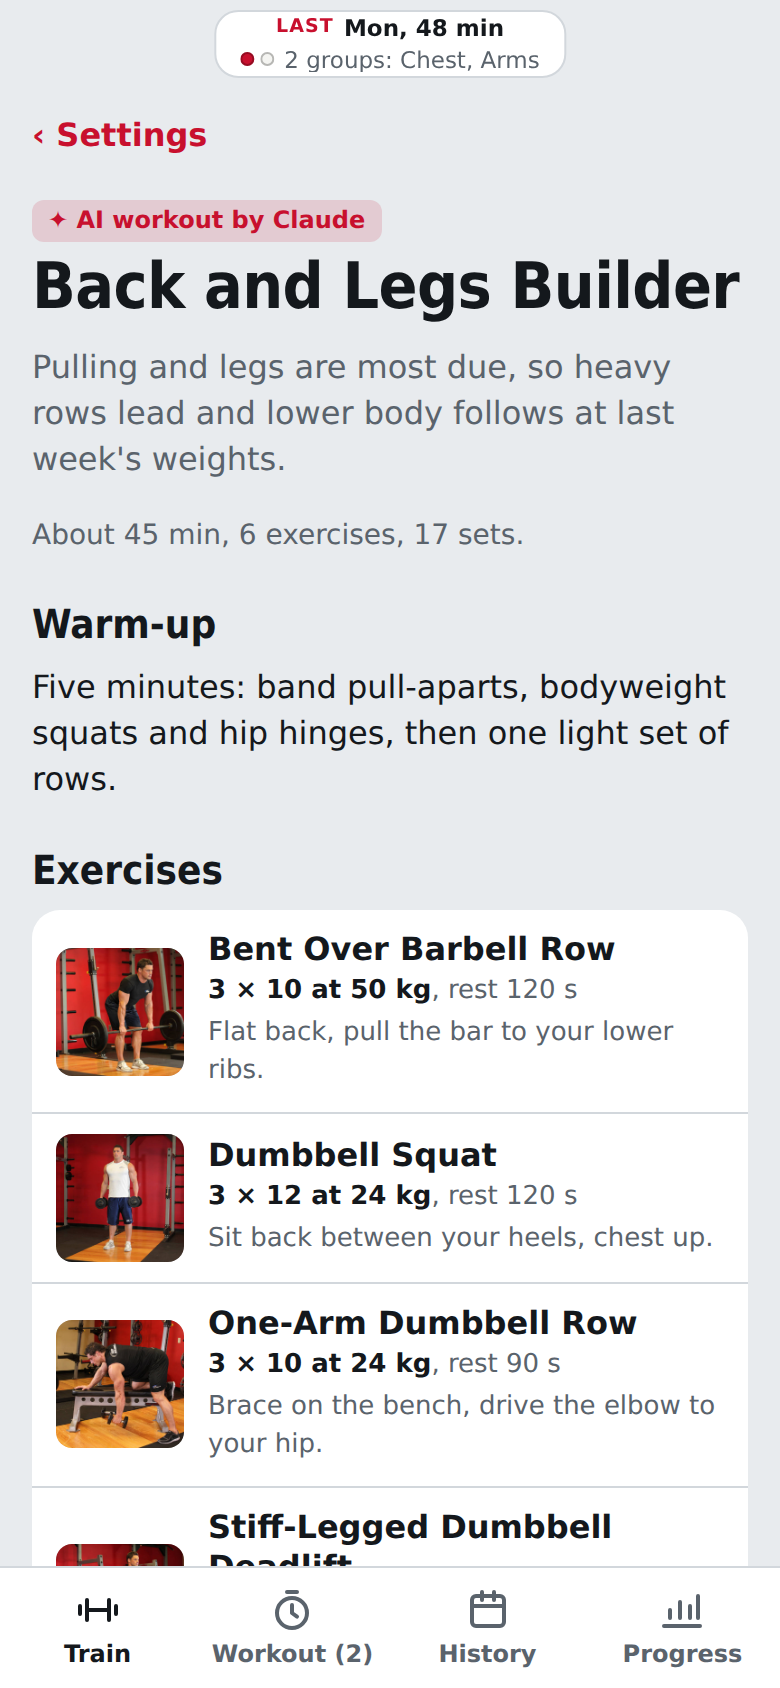
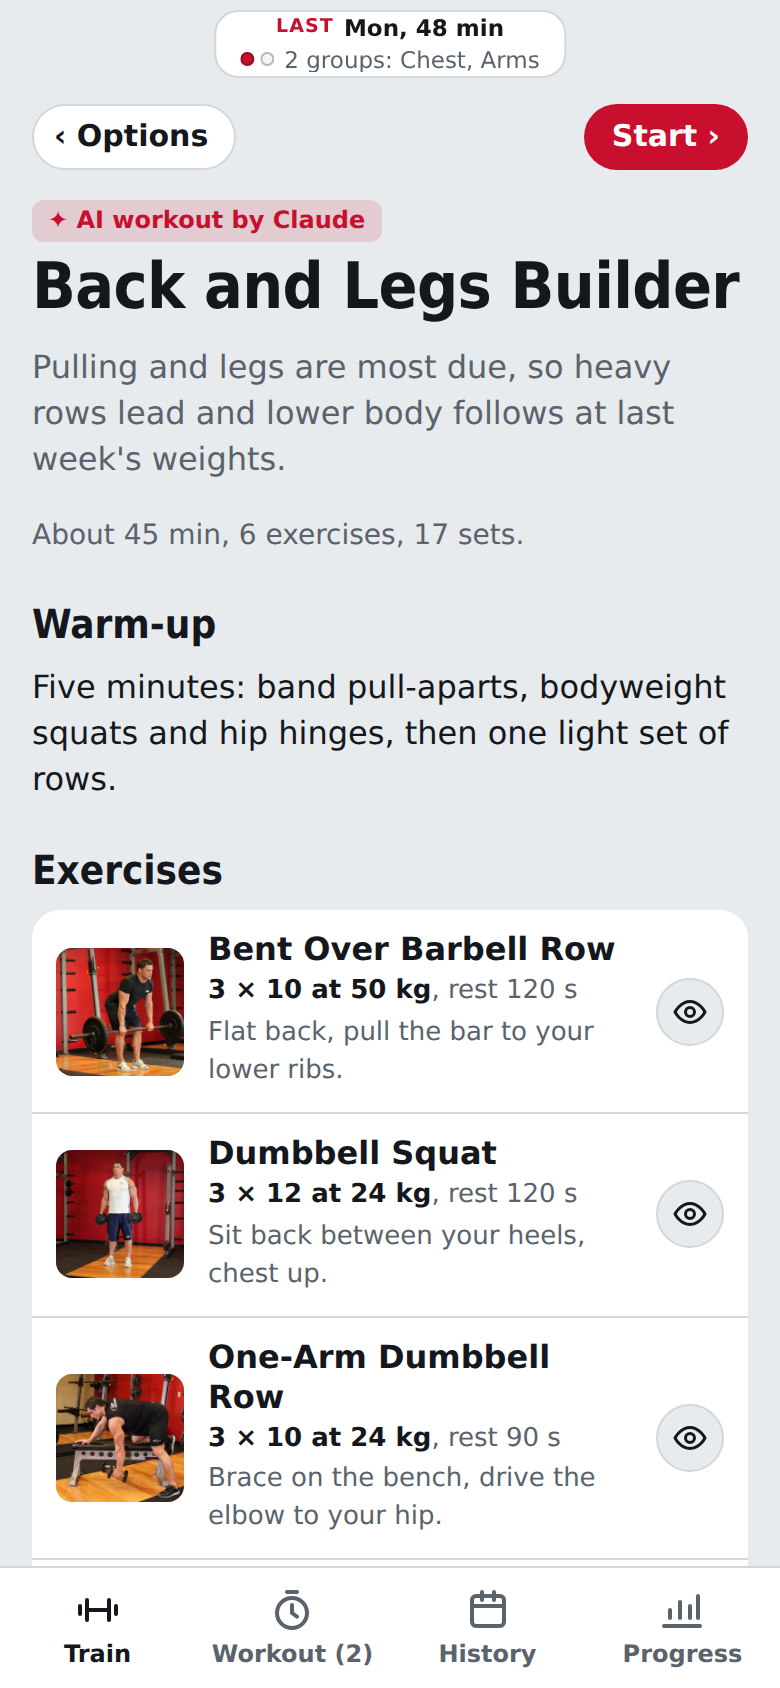
Release 1.8.0: easier navigation (＋ Add exercises, ✓ Workout header buttons, visible back buttons, plan Start in header) and a 10-second exercise preview pop-up

diff --git a/Go2FGym.js b/Go2FGym.js
@@ -28,7 +28,7 @@ const COACH = { autoAnalyze: true, autoStrava: true };
 
 // ---------------------------------------------------------------- version
 // This build's version. When releasing, bump it and add a matching entry to releases.json.
-const VERSION = '1.7.2';
+const VERSION = '1.8.0';
 const APP_ID = 'go2fgym';   // unique per app, never changes
 const REPO_RAW = 'https://raw.githubusercontent.com/gadominas/Go2FGym/main/';
 const SCRIPT_FILE = 'Go2FGym.js';   // the script's file name in the repository
@@ -1737,7 +1737,7 @@ function webApp() {
     const b = S.builder;
     const labels = b.groups.length ? b.groups.map((k) => GROUPS.find((g) => g.key === k).label).join(" + ") : "Muscles picked by the AI";
     const level = (INTENSITY.find((i) => i.key === b.intensity) || INTENSITY[1]).label.toLowerCase();
-    return `<header class="bar"><button class="back" data-a="b-edit">‹ Settings</button></header>
+    return `<header class="bar"><button class="back" data-a="b-edit">‹ Options</button></header>
       <p class="kicker">✨ Your AI coach</p>
       <h1 class="title busy">Building your next workout…</h1>
       <p class="lead"><b>${esc(labels)}</b>, about ${b.minutes} min, ${level}${b.why ? `, based on ${esc(b.why)}` : ""}. Weights come from your last sessions.</p>
@@ -1751,12 +1751,14 @@ function webApp() {
     const busy = S.aiBusy === "plan";
     const total = p.exercises.reduce((n, x) => n + x.sets, 0);
     const replacing = S.session && S.session.entries.length;
-    const rows = p.exercises.map((x) => `<div class="ex plan-ex" data-a="open" data-v="${esc(x.id)}">
+    const rows = p.exercises.map((x) => `<div class="ex plan-ex pv-row" data-a="open" data-v="${esc(x.id)}">
         <div class="thumb" data-id="${esc(x.id)}">${imgTag(x.id, 0)}<span>${esc(initials(x.name))}</span></div>
         <div><div class="ex-name">${esc(x.name)}</div>
         <div class="ex-meta"><b>${x.sets} × ${x.reps}${x.w ? ` at ${fmtNum(x.w)} ${UNIT}` : ""}</b>, rest ${x.rest} s</div>
-        ${x.note ? `<div class="ex-meta">${esc(x.note)}</div>` : ""}</div></div>`).join("");
-    return `<header class="bar"><button class="back" data-a="b-edit">‹ Settings</button></header>
+        ${x.note ? `<div class="ex-meta">${esc(x.note)}</div>` : ""}</div>
+        <button class="pv-btn" data-a="preview" data-v="${esc(x.id)}" aria-label="Preview ${esc(x.name)}"><svg viewBox="0 0 24 24" aria-hidden="true"><path d="M2 12s3.6-7 10-7 10 7 10 7-3.6 7-10 7S2 12 2 12z"/><circle cx="12" cy="12" r="3"/></svg></button></div>`).join("");
+    return `<header class="bar"><button class="back" data-a="b-edit">‹ Options</button>
+        <button class="hbtn${S.armed === "plan-start" ? " armed" : ""}" data-a="plan-start">${S.armed === "plan-start" ? "Tap to replace" : "Start ›"}</button></header>
       <p class="kicker"><span class="badge-ai">${esc(p.by ? `✦ AI workout by ${p.by}` : "✦ AI workout")}</span></p>
       <h1 class="title">${esc(p.title)}</h1>
       <p class="lead">${esc(p.summary)}</p>
@@ -1765,6 +1767,7 @@ function webApp() {
       <h2>Exercises</h2><div class="list">${rows}</div>
       ${p.cooldown ? `<h2>Cool-down</h2><p>${esc(p.cooldown)}</p>` : ""}
       <button class="primary${S.armed === "plan-start" ? " armed" : ""}" data-a="plan-start">${S.armed === "plan-start" ? "Tap again to replace your current workout" : "Start this workout"}</button>
+      <button class="secondary" data-a="plan-start-add">Start and add exercises</button>
       <button class="secondary${busy ? " busy" : ""}" data-a="build" ${busy ? "disabled" : ""}>${busy ? "Building another…" : "Build another"}</button>
       <p class="muted small">${replacing ? "Starting replaces the workout in progress. " : ""}Weights without history are left for you to choose. AI suggestions can be wrong.</p>`;
   }
@@ -1899,12 +1902,66 @@ function webApp() {
     if (!items.length) return `<p class="empty-line">No exercises match these filters. Try another equipment or type.</p>`;
     return `<p class="muted small count">${items.length} exercise${items.length > 1 ? "s" : ""}</p><div class="list">${items.map(exRow).join("")}</div>`;
   }
+  function toWorkoutBtn() {
+    const n = S.session ? S.session.entries.length : 0;
+    return n ? `<button class="hbtn" data-a="tab" data-v="workout">✓ Workout (${n})</button>` : "";
+  }
+  // Open the exercise list for adding to the running workout, filtered to its muscle groups.
+  function addExercises() {
+    const keys = S.session ? sessionGroups(S.session).map((g) => g.key) : [];
+    S.tab = "train";
+    S.detailId = null;
+    S.q = "";
+    S.muscle = "all";
+    if (keys.length) { S.groups = new Set(keys); S.trainView = "list"; }
+    else S.trainView = "home";
+    render();
+  }
+
+  // Quick preview pop-up: the photo demo and the essentials, with a way into the full page. Closes itself after 10 s.
+  const PV_SECONDS = 10;
+  let pvTimer = null;
+  function closePreview() {
+    clearInterval(pvTimer);
+    pvTimer = null;
+    const el = $("#pv");
+    if (el) el.remove();
+  }
+  function openPreview(id) {
+    closePreview();
+    const e = S.byId[id];
+    if (!e) return;
+    want(id);
+    const last = lastSets(id);
+    const el = document.createElement("div");
+    el.id = "pv";
+    el.innerHTML = `<div class="pv-card" role="dialog" aria-modal="true" aria-label="Preview: ${esc(e.n)}">
+      <div class="pv-head"><b>${esc(e.n)}</b><button class="pv-x" data-a="pv-close" aria-label="Close preview">×</button></div>
+      <div class="stage pv-stage" data-frame="play">${e.has ? imgTag(e.id, 0, "f0") + imgTag(e.id, 1, "f1") : `<p class="noimg">No photos downloaded for this exercise yet.</p>`}</div>
+      <p class="small pv-meta">${esc(metaLine(e))}. Works <b>${esc(e.pm.map(cap).join(", "))}</b>.</p>
+      ${last ? `<p class="small muted pv-meta">Last time, ${esc(day(last.date))}: ${esc(fmtSets(last.sets))}</p>` : ""}
+      <div class="pv-actions"><button class="secondary" data-a="pv-close">Close</button><button class="primary" data-a="pv-open" data-v="${esc(id)}">Open exercise ›</button></div>
+      <div class="pv-bar" aria-hidden="true"><i></i></div>
+      <p class="pv-auto">Closes in <span>${PV_SECONDS}</span> s</p>
+    </div>`;
+    document.body.appendChild(el);
+    el.addEventListener("click", (ev) => { if (ev.target === el) closePreview(); });   // tap outside closes
+    const t0 = Date.now();
+    pvTimer = setInterval(() => {
+      const left = Math.max(0, PV_SECONDS - Math.floor((Date.now() - t0) / 1000));
+      const n = el.querySelector(".pv-auto span");
+      if (n) n.textContent = left;
+      if (Date.now() - t0 >= PV_SECONDS * 1000) closePreview();
+    }, 250);
+  }
+
   function renderList() {
     const groups = GROUPS.filter((g) => S.groups.has(g.key));
     const muscles = selectedMuscles().filter((m) => S.lib.some((e) => e.pm.includes(m)));
     const eqs = [...new Set(S.lib.map((e) => e.eq))];
-    return `<header class="bar"><button class="back" data-a="home">‹ Muscles</button></header>
+    return `<header class="bar"><button class="back" data-a="home">‹ Muscles</button>${toWorkoutBtn()}</header>
       <h1 class="title">${esc(groups.map((g) => g.label).join(" + "))}</h1>
+      ${S.session && S.session.entries.length ? `<p class="add-hint">Adding to <b>${esc(S.session.title || "your workout")}</b>: tap <b>+</b> on an exercise, then <b>Workout</b> at the top to go back.</p>` : ""}
       ${muscles.length > 1 ? `<div class="chips">${chip("muscle", "all", "All muscles")}${muscles.map((m) => chip("muscle", m, cap(m))).join("")}</div>` : ""}
       <div class="chips">${chip("eq", "all", "Any equipment")}${eqs.map((q) => chip("eq", q, EQ_LABEL[q] || cap(q))).join("")}</div>
       <div class="chips">${TYPES.map((t) => chip("type", t.key, t.label)).join("")}</div>
@@ -1924,7 +1981,7 @@ function webApp() {
     const on = inSession(e.id);
     const last = lastSets(e.id);
     const back = S.tab === "workout" ? "Workout" : S.tab === "history" ? "History" : "Exercises";
-    return `<header class="bar"><button class="back" data-a="close-detail">‹ ${back}</button></header>
+    return `<header class="bar"><button class="back" data-a="close-detail">‹ ${back}</button>${S.tab === "workout" ? "" : toWorkoutBtn()}</header>
       <h1 class="title">${esc(e.n)}</h1>
       <div class="stage" data-frame="play">${e.has ? imgTag(e.id, 0, "f0") + imgTag(e.id, 1, "f1") : `<p class="noimg">Photos not downloaded. Tap Update library on the Train tab.</p>`}</div>
       ${e.has ? `<div class="seg" role="group" aria-label="Demo frame">
@@ -1947,8 +2004,9 @@ function webApp() {
     const s = S.session;
     if (!s || !s.entries.length)
       return `<header class="bar"><h1 class="title">Workout</h1></header>
-        <div class="empty"><p>No exercises yet. Pick the muscles you want to train, then add exercises with +.</p>
-        <button class="primary" data-a="tab" data-v="train">Choose muscles</button></div>`;
+        <div class="empty"><p>No exercises yet. Pick the muscles you want to train and add exercises with <b>+</b>${S.ai.hasKey ? ", or let the AI coach build the whole workout" : ""}.</p>
+        <button class="primary" data-a="go-muscles">Choose muscles</button>
+        ${S.ai.hasKey && S.history.sessions.length ? `<button class="secondary ai" data-a="build-next-h">✨ Build next workout</button>` : ""}</div>`;
     const t = volume(s.entries.map((en) => ({ sets: en.sets.filter((x) => x.done) })));
     const entries = s.entries.map((en, ei) => {
       const last = lastSets(en.id);
@@ -1960,6 +2018,7 @@ function webApp() {
           <button class="x" data-a="rm-set" data-v="${ei}:${si}" aria-label="Remove set ${si + 1}">×</button></div>`).join("");
       return `<section class="entry">
         <div class="entry-head"><button class="entry-name" data-a="open" data-v="${esc(en.id)}">${esc(en.name)}</button>
+        <button class="pv-btn" data-a="preview" data-v="${esc(en.id)}" aria-label="Preview ${esc(en.name)}"><svg viewBox="0 0 24 24" aria-hidden="true"><path d="M2 12s3.6-7 10-7 10 7 10 7-3.6 7-10 7S2 12 2 12z"/><circle cx="12" cy="12" r="3"/></svg></button>
         <button class="link small${S.armed === "rm" + ei ? " armed" : ""}" data-a="rm-entry" data-v="${ei}">${S.armed === "rm" + ei ? "Tap to remove" : "Remove"}</button></div>
         ${en.note ? `<p class="small coach-note">✨ ${esc(en.note)}${en.rest ? ` Rest ${en.rest} s.` : ""}</p>` : ""}
         ${last ? `<p class="muted small">Last time, ${esc(day(last.date))}: ${esc(fmtSets(last.sets))}</p>` : `<p class="muted small">First time logging this one.</p>`}
@@ -1967,10 +2026,10 @@ function webApp() {
         ${rows}
         <button class="link" data-a="add-set" data-v="${ei}">Add set</button></section>`;
     }).join("");
-    return `<header class="bar"><h1 class="title">${esc(s.title || "Workout")}</h1><span class="muted" id="elapsed">${elapsed(s.start)}</span></header>
-      <p class="muted small" id="totals">${plural(t.n, "set")} done${t.v ? `, ${fmtNum(t.v)} ${UNIT} lifted` : ""}. Tap ✓ after each set to start the rest timer.</p>
+    return `<header class="bar"><h1 class="title">${esc(s.title || "Workout")}</h1><button class="hbtn" data-a="add-ex">＋ Add exercises</button></header>
+      <p class="muted small" id="totals"><span id="elapsed">${elapsed(s.start)}</span>, ${plural(t.n, "set")} done${t.v ? `, ${fmtNum(t.v)} ${UNIT} lifted` : ""}. Tap ✓ after each set to start the rest timer; the eye shows a quick preview.</p>
       ${entries}
-      <button class="secondary" data-a="tab" data-v="train">Add exercise</button>
+      <button class="secondary" data-a="add-ex">＋ Add exercises</button>
       <button class="primary${S.armed === "finish" ? " armed" : ""}" data-a="finish">${S.armed === "finish" ? "Tap again to save" : "Finish workout"}</button>
       <button class="link danger${S.armed === "discard" ? " armed" : ""}" data-a="discard">${S.armed === "discard" ? "Tap again to discard" : "Discard workout"}</button>`;
   }
@@ -2480,6 +2539,15 @@ function webApp() {
     home: () => { S.trainView = "home"; render(); },
     filter: (v) => { const i = v.indexOf("|"); S[v.slice(0, i)] = v.slice(i + 1); render(); },
     open: (v) => { S.detailId = v; render(); },
+    preview: (v) => openPreview(v),
+    "pv-close": () => closePreview(),
+    "pv-open": (v) => { closePreview(); S.detailId = v; render(); },
+    "add-ex": () => addExercises(),
+    "go-muscles": () => { S.tab = "train"; S.detailId = null; S.trainView = "home"; render(); },
+    "plan-start-add": () => {
+      const go = () => { startPlan(); addExercises(); };
+      return S.session && S.session.entries.length ? arm("plan-start-add", go) : go();
+    },
     "close-detail": () => { S.detailId = null; render(); },
     add: (v) => {
       if (inSession(v)) {
@@ -2781,6 +2849,7 @@ body::before{content:"";position:fixed;inset:0 0 auto;height:var(--band,env(safe
 #last .dots{gap:3px;flex:none}#last .dot{width:7px;height:7px}
 .hbtn{flex:none;background:var(--accent);color:var(--accent-ink);font:700 calc(15px * var(--ts))/1 var(--body);padding:9px 14px;border-radius:999px;white-space:nowrap;text-align:center}
 .hbtn:disabled{opacity:.4}
+.hbtn.armed{background:var(--ink);color:var(--bg)!important;text-decoration:none}
 #app{max-width:640px;margin:0 auto;padding:0 16px 32px}
 button{font:inherit;color:inherit;background:none;border:0;padding:0;cursor:pointer;text-align:inherit}
 button:focus-visible,input:focus-visible{outline:2px solid var(--accent);outline-offset:2px}
@@ -2799,7 +2868,27 @@ p{margin:0 0 10px}
 .lead{color:var(--muted);margin-bottom:16px}
 .bar{display:flex;align-items:center;justify-content:space-between;gap:12px;min-height:48px;position:sticky;top:var(--band,env(safe-area-inset-top,0px));background:var(--bg);z-index:5}
 .bar .title{margin:10px 0}
-.back{font-weight:600;color:var(--accent);padding:10px 0}
+.back{display:inline-flex;align-items:center;gap:2px;font:600 calc(15px * var(--ts))/1 var(--body);color:var(--ink);background:var(--surface);border:1px solid var(--line);
+  padding:8px 13px 8px 10px;border-radius:999px;white-space:nowrap}
+.bar .back:first-child{margin-right:auto}
+.add-hint{font-size:calc(14px * var(--ts));background:var(--surface);border-left:3px solid var(--accent);border-radius:8px;padding:8px 10px;margin:0 0 10px}
+.pv-btn{flex:none;width:34px;height:34px;border-radius:17px;display:grid;place-items:center;border:1px solid var(--line);background:var(--bg);color:var(--ink)}
+.pv-btn svg{width:18px;height:18px;fill:none;stroke:currentColor;stroke-width:2;stroke-linecap:round;stroke-linejoin:round}
+.entry-head{align-items:center}.entry-head .entry-name{flex:1;text-align:left}
+.plan-ex.pv-row{grid-template-columns:64px 1fr 34px}
+#pv{position:fixed;inset:0;z-index:55;background:rgba(0,0,0,.55);display:flex;align-items:center;justify-content:center;padding:18px}
+.pv-card{width:100%;max-width:440px;background:var(--surface);color:var(--ink);border-radius:18px;padding:14px 14px 10px;box-shadow:0 12px 40px rgba(0,0,0,.35);overflow:hidden}
+.pv-head{display:flex;align-items:flex-start;justify-content:space-between;gap:10px;margin-bottom:8px}
+.pv-head b{font:800 calc(21px * var(--ts))/1.15 var(--display)}
+.pv-x{flex:none;width:32px;height:32px;border-radius:16px;background:var(--bg);font-size:22px;line-height:1;text-align:center}
+.pv-stage{margin:0 0 8px}
+.pv-meta{margin:0 0 4px}
+.pv-actions{display:grid;grid-template-columns:1fr 1.4fr;gap:8px;margin-top:10px}
+.pv-actions .primary,.pv-actions .secondary{margin:0;white-space:nowrap;font-size:calc(17px * var(--ts));padding:13px 10px}
+.pv-bar{height:4px;border-radius:2px;background:var(--line);margin:12px 0 4px;overflow:hidden}
+.pv-bar i{display:block;height:100%;background:var(--accent);transform-origin:left;animation:pvbar 10s linear forwards}
+@keyframes pvbar{from{transform:scaleX(1)}to{transform:scaleX(0)}}
+.pv-auto{font-size:12px;color:var(--muted);text-align:center;margin:0}
 .link{color:var(--accent);font-weight:600;padding:10px 0}
 .link.danger{color:var(--muted)}
 .armed{color:var(--accent)!important;text-decoration:underline}

diff --git a/README.md b/README.md
@@ -23,7 +23,7 @@ Runs in [Scriptable](https://scriptable.app) and works fully offline.
   <img src="docs/screenshots/01-pick-muscles.png" width="180" alt="Pick muscle groups by tapping weight plates">
   <img src="docs/screenshots/03-exercise-demo.png" width="180" alt="Exercise with start-to-end photo demo">
   <img src="docs/screenshots/05-log-sets.png" width="180" alt="Logging sets with the rest timer running">
-  <img src="docs/screenshots/04-steps-and-progress.png" width="180" alt="Steps, last time and progress chart">
+  <img src="docs/screenshots/17-exercise-preview.png" width="180" alt="Quick exercise preview pop-up with a 10-second countdown">
 </p>
 
 ## Why
@@ -40,6 +40,8 @@ Gym apps assume a gym. At home you have a bench, a barbell, some dumbbells and t
 | 🖼 **See it done** | A start-to-end photo demo, numbered steps, and the muscles each exercise works. |
 | 🏠 **Made for home** | 466 exercises for bodyweight, dumbbells, barbell and resistance bands. Own kettlebells, an E-Z bar or a medicine ball? Switch them on in **Settings › Library**. |
 | ✍ **Fast logging** | Weight and reps are prefilled from last time. Change what's different, tap ✓, done. |
+| ＋ **Add as you go** | **＋ Add exercises** in the workout header opens the list for that workout's muscles; **✓ Workout** takes you straight back. |
+| 👁 **Quick preview** | The eye on each exercise in your workout shows it moving in a pop-up, with **Open exercise** for the full page. It closes itself after 10 seconds. |
 | ⏱ **Rest timer** | Ticking a set starts a countdown with a beep (90 s, adjustable in Settings). Add 30 s or skip. |
 | 💾 **Nothing lost** | An unfinished workout comes back when you reopen the app. History is mirrored to iCloud Drive. |
 | ✈ **Offline** | One download of about 36 MB, then no network needed. |
@@ -93,6 +95,10 @@ Gym apps assume a gym. At home you have a bench, a barbell, some dumbbells and t
   <img src="docs/screenshots/02-exercise-list.png" width="180" alt="Exercise list filtered by muscle and equipment">
 </p>
 
+<p align="center">
+  <img src="docs/screenshots/04-steps-and-progress.png" width="180" alt="Steps, last time and progress chart">
+</p>
+
 ## Setting up the AI coach
 
 Uses Claude or OpenAI with **your own API key**. Everything else in the app works without it, and the AI buttons stay hidden until you add a key.
@@ -124,12 +130,14 @@ Every version is listed in the **[changelog](CHANGELOG.md)**. The version you ha
 | Narrow the list | Use the muscle, equipment and type chips, or search |
 | See how it's done | Tap an exercise. **Start**, **Play** and **End** control the demo. |
 | Add to today's workout | Tap **+** in the list, or **Add to workout** on the exercise |
+| Add more during a workout | **＋ Add exercises** at the top of the Workout tab, tap **+**, then **✓ Workout** at the top to go back |
+| Quickly see how an exercise is done | Tap the **eye** next to it in your workout or a built plan; **Open exercise** for the full page |
 | Log a set | Check weight and reps, then tap **✓**. Leave weight empty for bodyweight. |
 | Add or remove a set | **Add set** copies the previous one; **×** removes a set |
 | Finish | **Finish workout**, then tap again to save |
 | Do a past workout again | **History**, open the workout, **Repeat this workout** |
 | Let AI build a workout | **Train › ✨ Build a workout with AI** |
-| Get your next workout in one tap | **✨ Build next** at the top of History or Progress. It uses the coach's last suggestion (or your most-due muscles), your usual workout length and all your equipment, and goes straight to the plan. **‹ Settings** adjusts it. |
+| Get your next workout in one tap | **✨ Build next** at the top of History or Progress. It uses the coach's last suggestion (or your most-due muscles), your usual workout length and all your equipment, and goes straight to the plan. **‹ Options** adjusts it; **Start ›** or **Start and add exercises** begins it. |
 | Get AI feedback on a past workout | **History**, open it, **✨ Analyze with AI coach** |
 | See your month | **History › Calendar**, tap a day; **‹ ›** change month |
 | See your trends | **Progress** tab; tap a lift for its details |

diff --git a/CHANGELOG.md b/CHANGELOG.md
@@ -2,6 +2,21 @@
 
 All notable changes to Go2FGym. Generated from `releases.json`; edit that file, not this one.
 
+## 1.8.0 (2026-10-29): Easier to get around
+
+- ＋ **Add exercises anytime**: ＋ Add exercises in the workout header opens the list for that workout's muscles.
+- 👁 **Quick preview**: Tap the eye on any exercise in your workout to see it moving, without leaving.
+- 🧭 **Clear way back**: Bigger back buttons, and a Workout button on every Train screen while you train.
+
+**Changes**
+
+- ＋ Add exercises in the Workout header and under the exercises opens the exercise list filtered to the workout's muscle groups, with a short hint
+- ✓ Workout (n) button in the header of the exercise list and exercise pages while a workout is running
+- Built plans: Start in the header, Start and add exercises at the bottom, and ‹ Options instead of ‹ Settings
+- Preview pop-up from the eye button on workout and plan exercises: photo demo, muscles, last time, and Open exercise; closes itself after 10 seconds with a countdown
+- Back buttons are now clearly visible buttons instead of small text links
+- Empty Workout tab offers Choose muscles and, with an AI key, Build next workout
+
 ## 1.7.2 (2026-10-29): No more black screen
 
 - 🖤 **Opens reliably**: If iOS fails to start the screen on opening, the app now notices and reloads it by itself.
